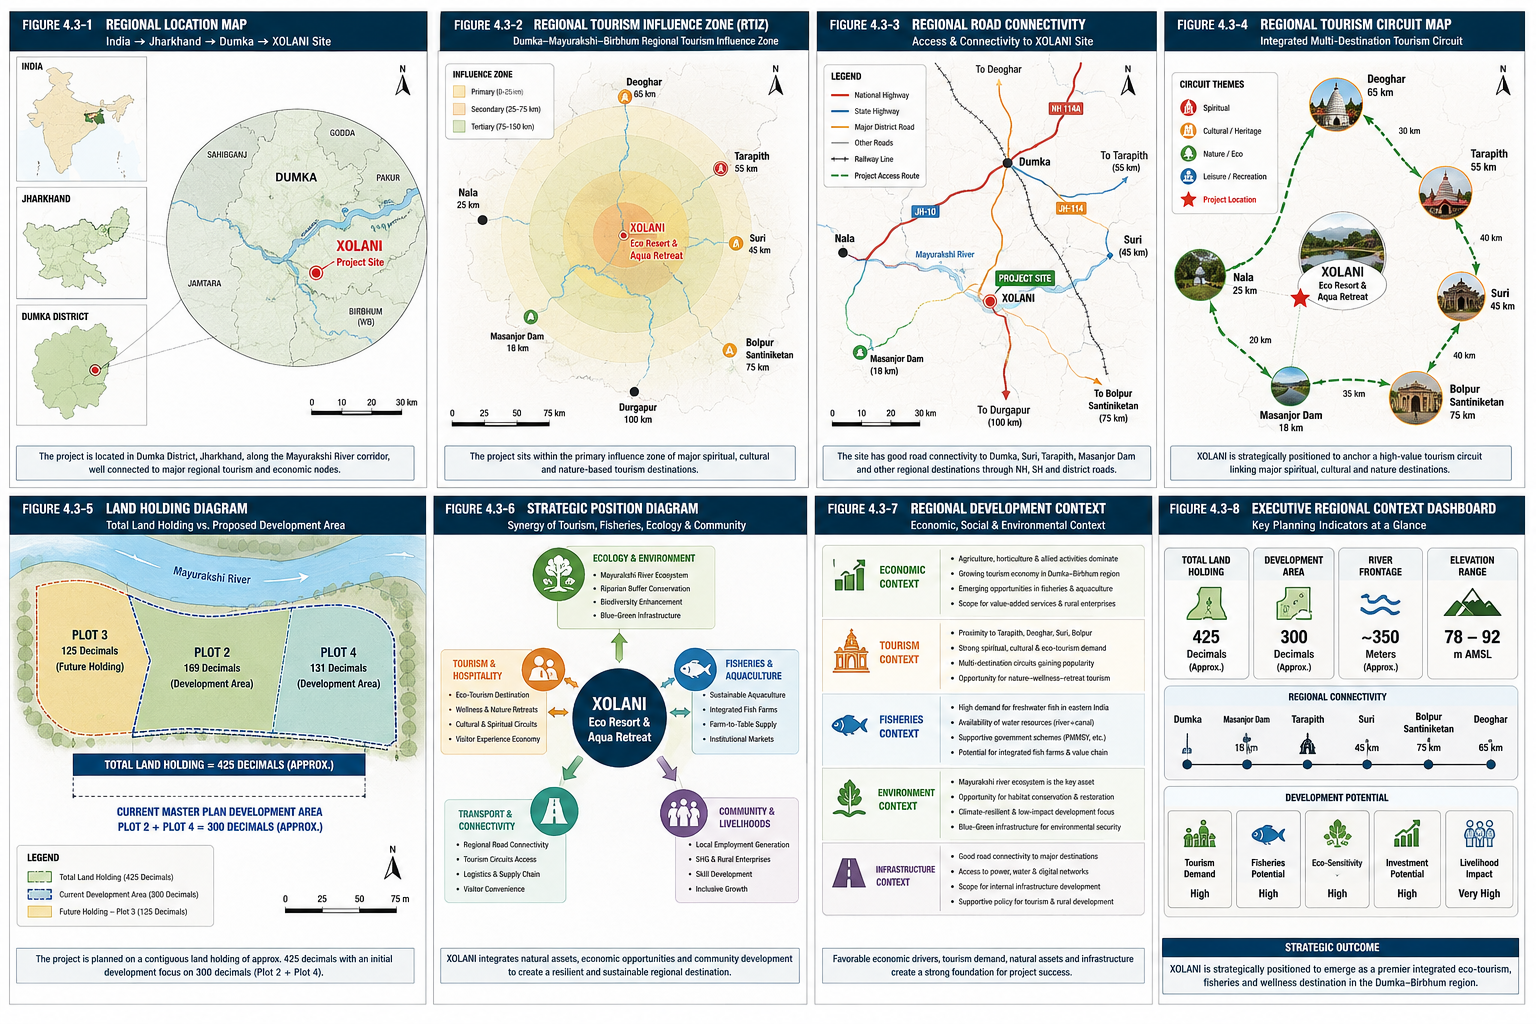
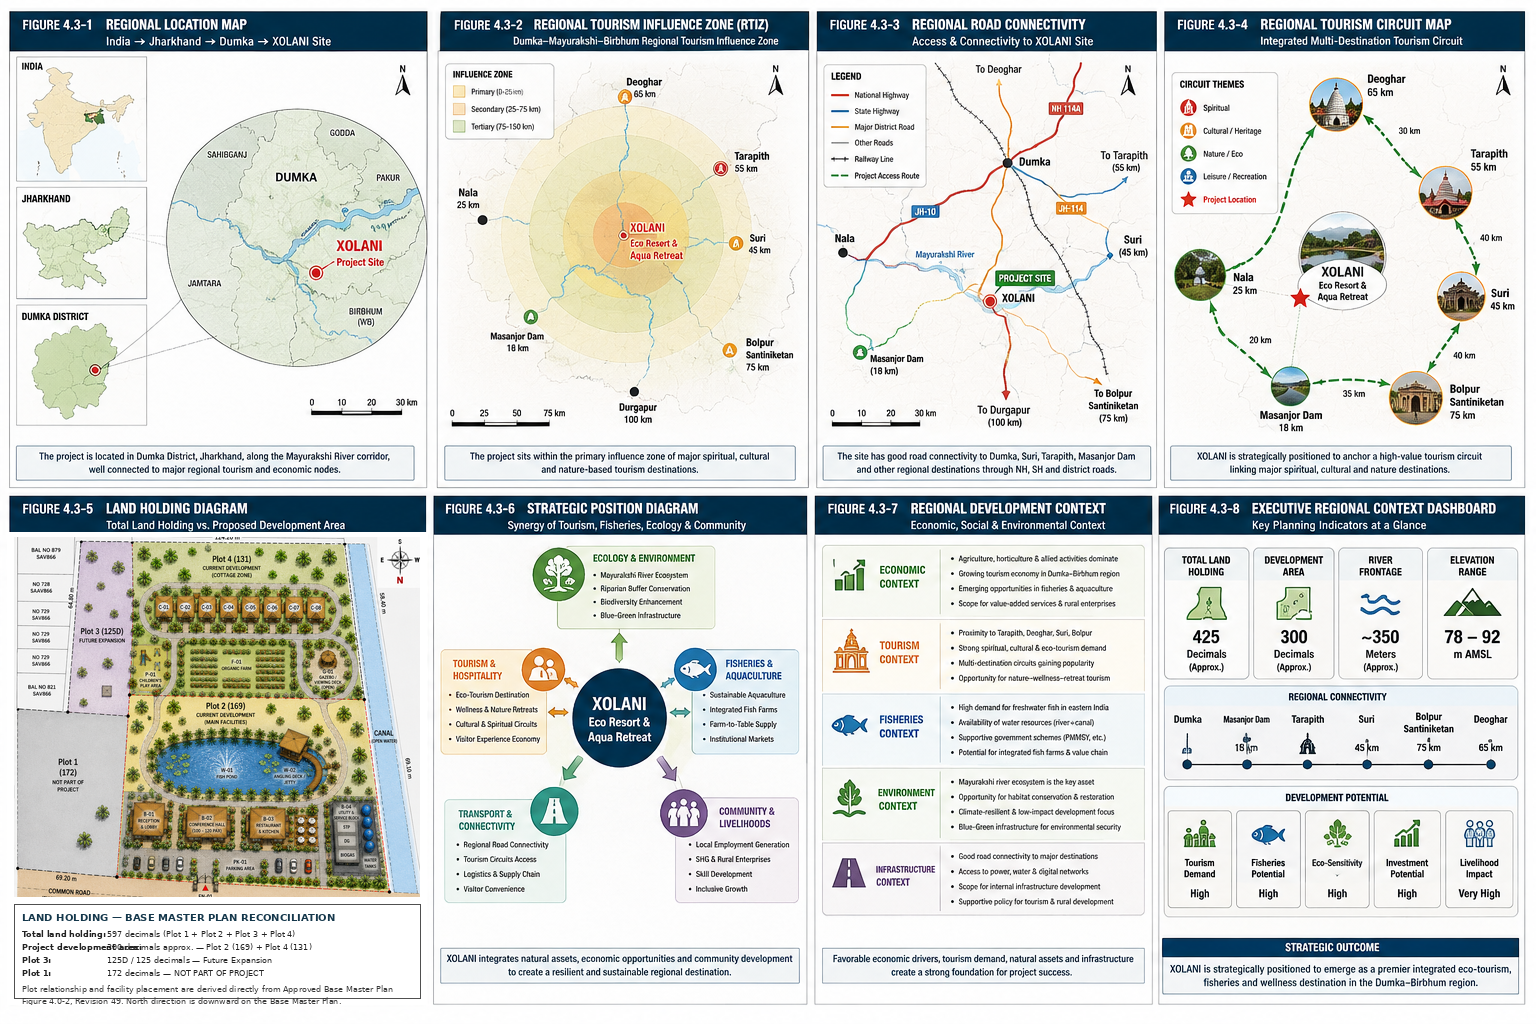
Update AST-000012 Figure 4.3-5 and DAR-012

Changed region(s): [[0.0, 0.5, 0.2812, 1.0]]

diff --git a/engineering/DAR/DAR-012/DAR-012_Drawing_Analysis_Report.md b/engineering/DAR/DAR-012/DAR-012_Drawing_Analysis_Report.md
@@ -1,0 +1,24 @@
+# DAR-012 — Drawing Analysis Report
+
+## Controlled Asset
+
+- Asset ID: AST-000012
+- Original Filename: ChatGPT Image Jul 17, 2026, 03_54_33 AM.png
+- Repository Path: drawings/Current/ChatGPT Image Jul 17, 2026, 03_54_33 AM.png
+- DAR Reference: DAR-012
+
+## Role
+
+Regional Location, Tourism Influence & Strategic Development Context
+
+## Approved Replacement Status
+
+APPROVED
+
+The current controlled drawing preserves the original AST-000012 sheet and revises only Figure 4.3-5.
+
+## Figure 4.3-5 Control
+
+Figure 4.3-5 has been revised to align with the Approved Base Master Plan / Figure 4.0-2.
+
+The Approved Base Master Plan is the controlling internal development baseline. The Government Site Plan is not the basis for this internal land-holding diagram.
